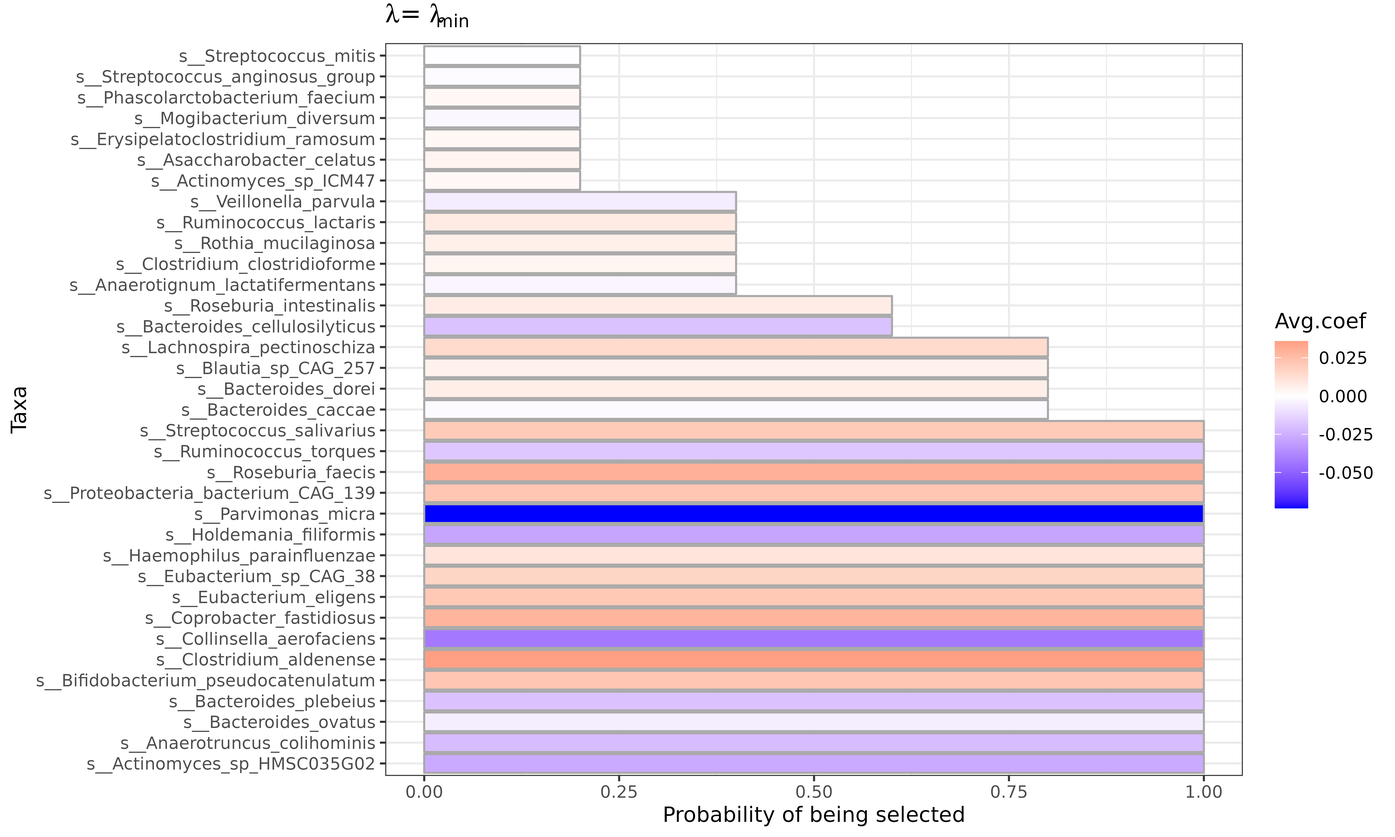
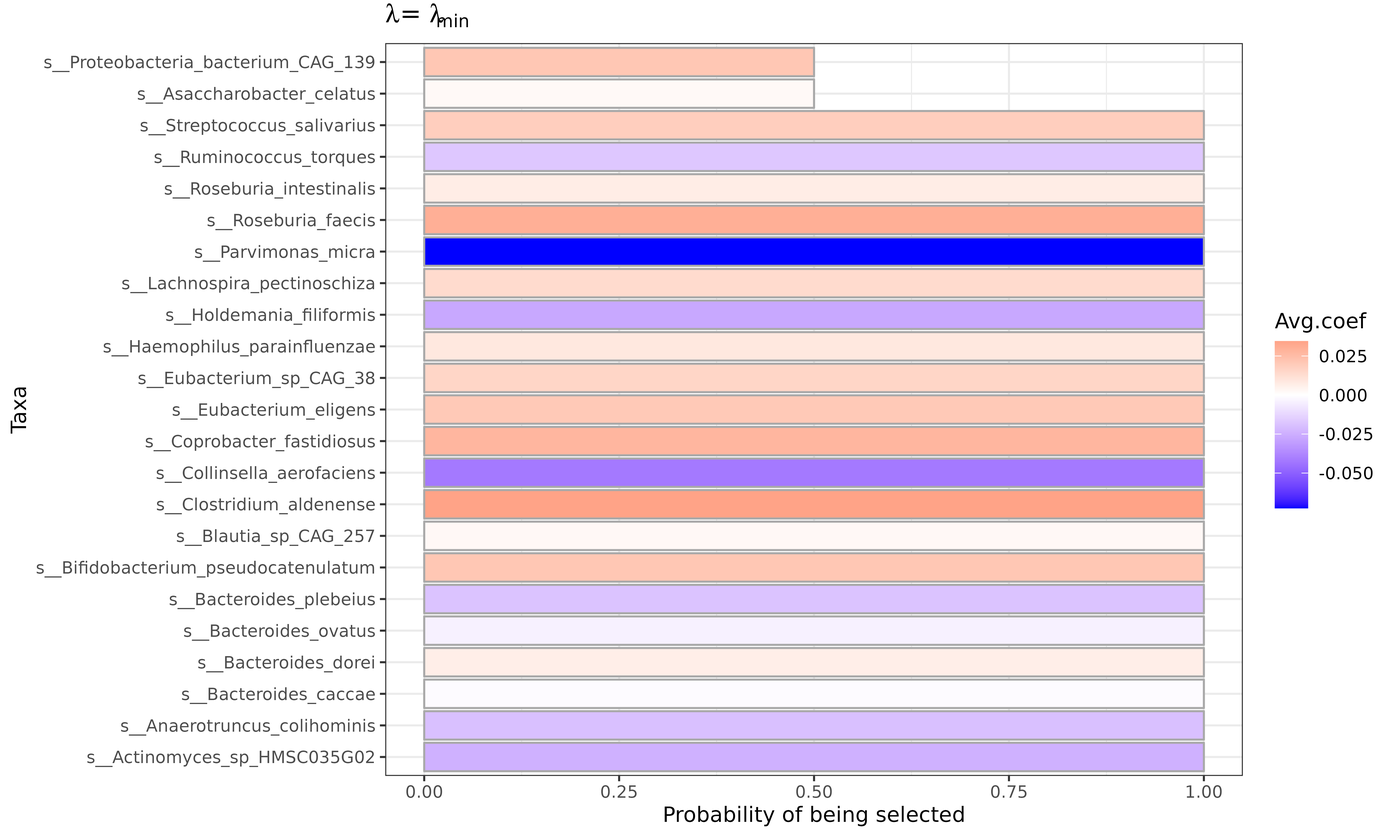
Built site for FLORAL: 0.2.0@d10d714

diff --git a/articles/Using-FLORAL-for-Microbiome-Analysis.html b/articles/Using-FLORAL-for-Microbiome-Analysis.html
@@ -33,7 +33,7 @@
     
     <a class="navbar-brand me-2" href="../index.html">FLORAL</a>
 
-    <small class="nav-text text-muted me-auto" data-bs-toggle="tooltip" data-bs-placement="bottom" title="">0.1.0.9001</small>
+    <small class="nav-text text-muted me-auto" data-bs-toggle="tooltip" data-bs-placement="bottom" title="">0.2.0</small>
 
     
     <button class="navbar-toggler" type="button" data-bs-toggle="collapse" data-bs-target="#navbar" aria-controls="navbar" aria-expanded="false" aria-label="Toggle navigation">
@@ -190,11 +190,11 @@ which is derived from the log-ratio model assumption.</p>
 <span></span>
 <span><span class="fu"><a href="https://rdrr.io/r/utils/head.html" class="external-link">head</a></span><span class="op">(</span><span class="fu"><a href="https://rdrr.io/r/base/sort.html" class="external-link">sort</a></span><span class="op">(</span><span class="va">fit</span><span class="op">$</span><span class="va">best.beta</span><span class="op">$</span><span class="va">min</span><span class="op">)</span><span class="op">)</span></span>
 <span><span class="co">#&gt;          s__Parvimonas_micra s__Actinomyces_sp_HMSC035G02 </span></span>
-<span><span class="co">#&gt;                  -0.08514883                  -0.06091512 </span></span>
+<span><span class="co">#&gt;                  -0.08252935                  -0.05314047 </span></span>
 <span><span class="co">#&gt;   s__Collinsella_aerofaciens     s__Holdemania_filiformis </span></span>
-<span><span class="co">#&gt;                  -0.04813102                  -0.04267987 </span></span>
+<span><span class="co">#&gt;                  -0.04716041                  -0.03963238 </span></span>
 <span><span class="co">#&gt; s__Anaerotruncus_colihominis      s__Bacteroides_plebeius </span></span>
-<span><span class="co">#&gt;                  -0.03821665                  -0.02492675</span></span></code></pre></div>
+<span><span class="co">#&gt;                  -0.03450502                  -0.02348108</span></span></code></pre></div>
 </div>
 <div class="section level2">
 <h2 id="the-two-step-procedure">The Two-step Procedure<a class="anchor" aria-label="anchor" href="#the-two-step-procedure"></a>
@@ -213,17 +213,17 @@ occur in multiple ratios.</p>
 <div class="sourceCode" id="cb7"><pre class="downlit sourceCode r">
 <code class="sourceCode R"><span></span>
 <span><span class="fu"><a href="https://rdrr.io/r/utils/head.html" class="external-link">head</a></span><span class="op">(</span><span class="va">fit</span><span class="op">$</span><span class="va">step2.ratios</span><span class="op">$</span><span class="va">`1se`</span><span class="op">)</span></span>
-<span><span class="co">#&gt; [1] "s__Bacteroides_plebeius/s__Bacteroides_dorei"                   </span></span>
+<span><span class="co">#&gt; [1] "s__Bacteroides_plebeius/s__Lachnospira_pectinoschiza"           </span></span>
 <span><span class="co">#&gt; [2] "s__Eubacterium_eligens/s__Bacteroides_cellulosilyticus"         </span></span>
 <span><span class="co">#&gt; [3] "s__Collinsella_aerofaciens/s__Bifidobacterium_pseudocatenulatum"</span></span>
-<span><span class="co">#&gt; [4] "s__Streptococcus_salivarius/s__Actinomyces_sp_HMSC035G02"       </span></span>
-<span><span class="co">#&gt; [5] "s__Haemophilus_parainfluenzae/s__Actinomyces_sp_HMSC035G02"     </span></span>
-<span><span class="co">#&gt; [6] "s__Erysipelatoclostridium_ramosum/s__Parvimonas_micra"</span></span>
+<span><span class="co">#&gt; [4] "s__Collinsella_aerofaciens/s__Coprobacter_fastidiosus"          </span></span>
+<span><span class="co">#&gt; [5] "s__Streptococcus_salivarius/s__Parvimonas_micra"                </span></span>
+<span><span class="co">#&gt; [6] "s__Holdemania_filiformis/s__Eubacterium_sp_CAG_38"</span></span>
 <span></span>
 <span><span class="va">fit</span><span class="op">$</span><span class="va">step2.ratios</span><span class="op">$</span><span class="va">`1se.idx`</span></span>
-<span><span class="co">#&gt;      [,1] [,2] [,3] [,4] [,5] [,6] [,7] [,8] [,9] [,10] [,11] [,12] [,13]</span></span>
-<span><span class="co">#&gt; [1,]   NA    1    4   12   22   25   26   27   27    44    73    81   114</span></span>
-<span><span class="co">#&gt; [2,]   NA    2  113  102  128  128  131   90  151    64    80   128   131</span></span></code></pre></div>
+<span><span class="co">#&gt;      [,1] [,2] [,3] [,4] [,5] [,6] [,7] [,8] [,9] [,10]</span></span>
+<span><span class="co">#&gt; [1,]   NA    1    4   12   12   22   27   27   64    80</span></span>
+<span><span class="co">#&gt; [2,]   NA   73  113  102  114  131   90  151  131    81</span></span></code></pre></div>
 <p>To further interpret the positive or negative associations between
 the outcome, please refer to the output <code>step</code> regression
 tables, where the effect sizes of the ratios can be found.</p>
@@ -239,61 +239,49 @@ prediction errors.</p>
 <code class="sourceCode R"><span></span>
 <span><span class="va">fit</span><span class="op">$</span><span class="va">step2.tables</span><span class="op">$</span><span class="va">`1se`</span></span>
 <span><span class="co">#&gt;                                                                    Estimate</span></span>
-<span><span class="co">#&gt; (Intercept)                                                     -1.13290845</span></span>
-<span><span class="co">#&gt; s__Bacteroides_plebeius/s__Bacteroides_dorei                    -0.02844973</span></span>
-<span><span class="co">#&gt; s__Eubacterium_eligens/s__Bacteroides_cellulosilyticus           0.03778557</span></span>
-<span><span class="co">#&gt; s__Collinsella_aerofaciens/s__Bifidobacterium_pseudocatenulatum -0.04968019</span></span>
-<span><span class="co">#&gt; s__Streptococcus_salivarius/s__Actinomyces_sp_HMSC035G02         0.07512405</span></span>
-<span><span class="co">#&gt; s__Haemophilus_parainfluenzae/s__Actinomyces_sp_HMSC035G02       0.03696680</span></span>
-<span><span class="co">#&gt; s__Erysipelatoclostridium_ramosum/s__Parvimonas_micra            0.04781375</span></span>
-<span><span class="co">#&gt; s__Holdemania_filiformis/s__Eubacterium_sp_CAG_38               -0.03970198</span></span>
-<span><span class="co">#&gt; s__Holdemania_filiformis/s__Proteobacteria_bacterium_CAG_139    -0.03442088</span></span>
-<span><span class="co">#&gt; s__Anaerotruncus_colihominis/s__Clostridium_aldenense           -0.07787635</span></span>
-<span><span class="co">#&gt; s__Lachnospira_pectinoschiza/s__Ruminococcus_torques             0.03472516</span></span>
-<span><span class="co">#&gt; s__Roseburia_faecis/s__Actinomyces_sp_HMSC035G02                 0.04784454</span></span>
-<span><span class="co">#&gt; s__Coprobacter_fastidiosus/s__Parvimonas_micra                   0.06889677</span></span>
+<span><span class="co">#&gt; (Intercept)                                                     -0.27720870</span></span>
+<span><span class="co">#&gt; s__Bacteroides_plebeius/s__Lachnospira_pectinoschiza            -0.02919464</span></span>
+<span><span class="co">#&gt; s__Eubacterium_eligens/s__Bacteroides_cellulosilyticus           0.04723508</span></span>
+<span><span class="co">#&gt; s__Collinsella_aerofaciens/s__Bifidobacterium_pseudocatenulatum -0.03143593</span></span>
+<span><span class="co">#&gt; s__Collinsella_aerofaciens/s__Coprobacter_fastidiosus           -0.04248963</span></span>
+<span><span class="co">#&gt; s__Streptococcus_salivarius/s__Parvimonas_micra                  0.07394560</span></span>
+<span><span class="co">#&gt; s__Holdemania_filiformis/s__Eubacterium_sp_CAG_38               -0.04070714</span></span>
+<span><span class="co">#&gt; s__Holdemania_filiformis/s__Proteobacteria_bacterium_CAG_139    -0.03969244</span></span>
+<span><span class="co">#&gt; s__Clostridium_aldenense/s__Parvimonas_micra                     0.07915905</span></span>
+<span><span class="co">#&gt; s__Ruminococcus_torques/s__Roseburia_faecis                     -0.03437834</span></span>
 <span><span class="co">#&gt;                                                                 Std. Error</span></span>
-<span><span class="co">#&gt; (Intercept)                                                     0.26269116</span></span>
-<span><span class="co">#&gt; s__Bacteroides_plebeius/s__Bacteroides_dorei                    0.01109385</span></span>
-<span><span class="co">#&gt; s__Eubacterium_eligens/s__Bacteroides_cellulosilyticus          0.01394149</span></span>
-<span><span class="co">#&gt; s__Collinsella_aerofaciens/s__Bifidobacterium_pseudocatenulatum 0.01517330</span></span>
-<span><span class="co">#&gt; s__Streptococcus_salivarius/s__Actinomyces_sp_HMSC035G02        0.02810284</span></span>
-<span><span class="co">#&gt; s__Haemophilus_parainfluenzae/s__Actinomyces_sp_HMSC035G02      0.02287159</span></span>
-<span><span class="co">#&gt; s__Erysipelatoclostridium_ramosum/s__Parvimonas_micra           0.01975876</span></span>
-<span><span class="co">#&gt; s__Holdemania_filiformis/s__Eubacterium_sp_CAG_38               0.01630423</span></span>
-<span><span class="co">#&gt; s__Holdemania_filiformis/s__Proteobacteria_bacterium_CAG_139    0.01847908</span></span>
-<span><span class="co">#&gt; s__Anaerotruncus_colihominis/s__Clostridium_aldenense           0.02175762</span></span>
-<span><span class="co">#&gt; s__Lachnospira_pectinoschiza/s__Ruminococcus_torques            0.01312878</span></span>
-<span><span class="co">#&gt; s__Roseburia_faecis/s__Actinomyces_sp_HMSC035G02                0.01770898</span></span>
-<span><span class="co">#&gt; s__Coprobacter_fastidiosus/s__Parvimonas_micra                  0.01828425</span></span>
+<span><span class="co">#&gt; (Intercept)                                                     0.21514372</span></span>
+<span><span class="co">#&gt; s__Bacteroides_plebeius/s__Lachnospira_pectinoschiza            0.01105520</span></span>
+<span><span class="co">#&gt; s__Eubacterium_eligens/s__Bacteroides_cellulosilyticus          0.01351912</span></span>
+<span><span class="co">#&gt; s__Collinsella_aerofaciens/s__Bifidobacterium_pseudocatenulatum 0.01565520</span></span>
+<span><span class="co">#&gt; s__Collinsella_aerofaciens/s__Coprobacter_fastidiosus           0.01667695</span></span>
+<span><span class="co">#&gt; s__Streptococcus_salivarius/s__Parvimonas_micra                 0.02218330</span></span>
+<span><span class="co">#&gt; s__Holdemania_filiformis/s__Eubacterium_sp_CAG_38               0.01578675</span></span>
+<span><span class="co">#&gt; s__Holdemania_filiformis/s__Proteobacteria_bacterium_CAG_139    0.01768932</span></span>
+<span><span class="co">#&gt; s__Clostridium_aldenense/s__Parvimonas_micra                    0.02322763</span></span>
+<span><span class="co">#&gt; s__Ruminococcus_torques/s__Roseburia_faecis                     0.01271141</span></span>
 <span><span class="co">#&gt;                                                                   z value</span></span>
-<span><span class="co">#&gt; (Intercept)                                                     -4.312701</span></span>
-<span><span class="co">#&gt; s__Bacteroides_plebeius/s__Bacteroides_dorei                    -2.564460</span></span>
-<span><span class="co">#&gt; s__Eubacterium_eligens/s__Bacteroides_cellulosilyticus           2.710297</span></span>
-<span><span class="co">#&gt; s__Collinsella_aerofaciens/s__Bifidobacterium_pseudocatenulatum -3.274185</span></span>
-<span><span class="co">#&gt; s__Streptococcus_salivarius/s__Actinomyces_sp_HMSC035G02         2.673183</span></span>
-<span><span class="co">#&gt; s__Haemophilus_parainfluenzae/s__Actinomyces_sp_HMSC035G02       1.616276</span></span>
-<span><span class="co">#&gt; s__Erysipelatoclostridium_ramosum/s__Parvimonas_micra            2.419876</span></span>
-<span><span class="co">#&gt; s__Holdemania_filiformis/s__Eubacterium_sp_CAG_38               -2.435072</span></span>
-<span><span class="co">#&gt; s__Holdemania_filiformis/s__Proteobacteria_bacterium_CAG_139    -1.862695</span></span>
-<span><span class="co">#&gt; s__Anaerotruncus_colihominis/s__Clostridium_aldenense           -3.579268</span></span>
-<span><span class="co">#&gt; s__Lachnospira_pectinoschiza/s__Ruminococcus_torques             2.644964</span></span>
-<span><span class="co">#&gt; s__Roseburia_faecis/s__Actinomyces_sp_HMSC035G02                 2.701711</span></span>
-<span><span class="co">#&gt; s__Coprobacter_fastidiosus/s__Parvimonas_micra                   3.768094</span></span>
+<span><span class="co">#&gt; (Intercept)                                                     -1.288481</span></span>
+<span><span class="co">#&gt; s__Bacteroides_plebeius/s__Lachnospira_pectinoschiza            -2.640807</span></span>
+<span><span class="co">#&gt; s__Eubacterium_eligens/s__Bacteroides_cellulosilyticus           3.493947</span></span>
+<span><span class="co">#&gt; s__Collinsella_aerofaciens/s__Bifidobacterium_pseudocatenulatum -2.008018</span></span>
+<span><span class="co">#&gt; s__Collinsella_aerofaciens/s__Coprobacter_fastidiosus           -2.547807</span></span>
+<span><span class="co">#&gt; s__Streptococcus_salivarius/s__Parvimonas_micra                  3.333391</span></span>
+<span><span class="co">#&gt; s__Holdemania_filiformis/s__Eubacterium_sp_CAG_38               -2.578563</span></span>
+<span><span class="co">#&gt; s__Holdemania_filiformis/s__Proteobacteria_bacterium_CAG_139    -2.243864</span></span>
+<span><span class="co">#&gt; s__Clostridium_aldenense/s__Parvimonas_micra                     3.407970</span></span>
+<span><span class="co">#&gt; s__Ruminococcus_torques/s__Roseburia_faecis                     -2.704526</span></span>
 <span><span class="co">#&gt;                                                                     Pr(&gt;|z|)</span></span>
-<span><span class="co">#&gt; (Intercept)                                                     0.0000161272</span></span>
-<span><span class="co">#&gt; s__Bacteroides_plebeius/s__Bacteroides_dorei                    0.0103336444</span></span>
-<span><span class="co">#&gt; s__Eubacterium_eligens/s__Bacteroides_cellulosilyticus          0.0067222886</span></span>
-<span><span class="co">#&gt; s__Collinsella_aerofaciens/s__Bifidobacterium_pseudocatenulatum 0.0010596731</span></span>
-<span><span class="co">#&gt; s__Streptococcus_salivarius/s__Actinomyces_sp_HMSC035G02        0.0075135152</span></span>
-<span><span class="co">#&gt; s__Haemophilus_parainfluenzae/s__Actinomyces_sp_HMSC035G02      0.1060346352</span></span>
-<span><span class="co">#&gt; s__Erysipelatoclostridium_ramosum/s__Parvimonas_micra           0.0155258098</span></span>
-<span><span class="co">#&gt; s__Holdemania_filiformis/s__Eubacterium_sp_CAG_38               0.0148888266</span></span>
-<span><span class="co">#&gt; s__Holdemania_filiformis/s__Proteobacteria_bacterium_CAG_139    0.0625051926</span></span>
-<span><span class="co">#&gt; s__Anaerotruncus_colihominis/s__Clostridium_aldenense           0.0003445584</span></span>
-<span><span class="co">#&gt; s__Lachnospira_pectinoschiza/s__Ruminococcus_torques            0.0081699524</span></span>
-<span><span class="co">#&gt; s__Roseburia_faecis/s__Actinomyces_sp_HMSC035G02                0.0068983632</span></span>
-<span><span class="co">#&gt; s__Coprobacter_fastidiosus/s__Parvimonas_micra                  0.0001644988</span></span></code></pre></div>
+<span><span class="co">#&gt; (Intercept)                                                     0.1975784131</span></span>
+<span><span class="co">#&gt; s__Bacteroides_plebeius/s__Lachnospira_pectinoschiza            0.0082708898</span></span>
+<span><span class="co">#&gt; s__Eubacterium_eligens/s__Bacteroides_cellulosilyticus          0.0004759361</span></span>
+<span><span class="co">#&gt; s__Collinsella_aerofaciens/s__Bifidobacterium_pseudocatenulatum 0.0446413750</span></span>
+<span><span class="co">#&gt; s__Collinsella_aerofaciens/s__Coprobacter_fastidiosus           0.0108402505</span></span>
+<span><span class="co">#&gt; s__Streptococcus_salivarius/s__Parvimonas_micra                 0.0008579441</span></span>
+<span><span class="co">#&gt; s__Holdemania_filiformis/s__Eubacterium_sp_CAG_38               0.0099212270</span></span>
+<span><span class="co">#&gt; s__Holdemania_filiformis/s__Proteobacteria_bacterium_CAG_139    0.0248411595</span></span>
+<span><span class="co">#&gt; s__Clostridium_aldenense/s__Parvimonas_micra                    0.0006544809</span></span>
+<span><span class="co">#&gt; s__Ruminococcus_torques/s__Roseburia_faecis                     0.0068401830</span></span></code></pre></div>
 </div>
 <div class="section level2">
 <h2 id="generating-taxa-selection-probabilities">Generating taxa selection probabilities<a class="anchor" aria-label="anchor" href="#generating-taxa-selection-probabilities"></a>
@@ -307,20 +295,17 @@ summarizes taxa selection probabilities, average coefficients based on
 can be created if <code>plot = TRUE</code> is specified.</p>
 <div class="sourceCode" id="cb9"><pre class="downlit sourceCode r">
 <code class="sourceCode R"><span></span>
-<span><span class="va">mcv.fit</span> <span class="op">&lt;-</span> <span class="fu"><a href="../reference/mcv.FLORAL.html">mcv.FLORAL</a></span><span class="op">(</span>mcv<span class="op">=</span><span class="fl">5</span>,</span>
+<span><span class="va">mcv.fit</span> <span class="op">&lt;-</span> <span class="fu"><a href="../reference/mcv.FLORAL.html">mcv.FLORAL</a></span><span class="op">(</span>mcv<span class="op">=</span><span class="fl">2</span>,</span>
 <span>                      ncore<span class="op">=</span><span class="fl">1</span>,</span>
 <span>                      x <span class="op">=</span> <span class="va">x</span>, </span>
 <span>                      y <span class="op">=</span> <span class="va">y</span>, </span>
 <span>                      family <span class="op">=</span> <span class="st">"binomial"</span>, </span>
 <span>                      ncv <span class="op">=</span> <span class="fl">3</span>,</span>
 <span>                      progress<span class="op">=</span><span class="cn">TRUE</span><span class="op">)</span></span>
-<span><span class="co">#&gt; Warning in mcv.FLORAL(mcv = 5, ncore = 1, x = x, y = y, family = "binomial", :</span></span>
+<span><span class="co">#&gt; Warning in mcv.FLORAL(mcv = 2, ncore = 1, x = x, y = y, family = "binomial", :</span></span>
 <span><span class="co">#&gt; Using 1 core for computation.</span></span>
 <span><span class="co">#&gt; Random 3-fold cross-validation: 1</span></span>
-<span><span class="co">#&gt; Random 3-fold cross-validation: 2</span></span>
-<span><span class="co">#&gt; Random 3-fold cross-validation: 3</span></span>
-<span><span class="co">#&gt; Random 3-fold cross-validation: 4</span></span>
-<span><span class="co">#&gt; Random 3-fold cross-validation: 5</span></span></code></pre></div>
+<span><span class="co">#&gt; Random 3-fold cross-validation: 2</span></span></code></pre></div>
 <div class="sourceCode" id="cb10"><pre class="downlit sourceCode r">
 <code class="sourceCode R"><span></span>
 <span><span class="va">mcv.fit</span><span class="op">$</span><span class="va">p_min</span></span></code></pre></div>
@@ -345,21 +330,20 @@ return a plot of the corresponding prediction metric trajectories
 against the choice of <span class="math inline">\(\lambda\)</span>.</p>
 <div class="sourceCode" id="cb12"><pre class="downlit sourceCode r">
 <code class="sourceCode R"><span></span>
-<span><span class="va">a.fit</span> <span class="op">&lt;-</span> <span class="fu"><a href="../reference/a.FLORAL.html">a.FLORAL</a></span><span class="op">(</span>a <span class="op">=</span> <span class="fu"><a href="https://rdrr.io/r/base/c.html" class="external-link">c</a></span><span class="op">(</span><span class="fl">0.1</span>,<span class="fl">0.5</span>,<span class="fl">1</span><span class="op">)</span>,</span>
+<span><span class="va">a.fit</span> <span class="op">&lt;-</span> <span class="fu"><a href="../reference/a.FLORAL.html">a.FLORAL</a></span><span class="op">(</span>a <span class="op">=</span> <span class="fu"><a href="https://rdrr.io/r/base/c.html" class="external-link">c</a></span><span class="op">(</span><span class="fl">0.1</span>,<span class="fl">1</span><span class="op">)</span>,</span>
 <span>                  ncore <span class="op">=</span> <span class="fl">1</span>,</span>
 <span>                  x <span class="op">=</span> <span class="va">x</span>, </span>
 <span>                  y <span class="op">=</span> <span class="va">y</span>, </span>
 <span>                  family <span class="op">=</span> <span class="st">"binomial"</span>, </span>
 <span>                  ncv <span class="op">=</span> <span class="fl">3</span>,</span>
 <span>                  progress<span class="op">=</span><span class="cn">TRUE</span><span class="op">)</span></span>
-<span><span class="co">#&gt; Warning in a.FLORAL(a = c(0.1, 0.5, 1), ncore = 1, x = x, y = y, family =</span></span>
+<span><span class="co">#&gt; Warning in a.FLORAL(a = c(0.1, 1), ncore = 1, x = x, y = y, family =</span></span>
 <span><span class="co">#&gt; "binomial", : Using 1 core for computation.</span></span>
 <span><span class="co">#&gt; Running for a = 0.1</span></span>
-<span><span class="co">#&gt; Running for a = 0.5</span></span>
 <span><span class="co">#&gt; Running for a = 1</span></span>
 <span></span>
 <span><span class="va">a.fit</span></span></code></pre></div>
-<p><img src="Using-FLORAL-for-Microbiome-Analysis_files/figure-html/a.floral-1.png" width="100%"></p>
+<p><img src="Using-FLORAL-for-Microbiome-Analysis_files/figure-html/a.floral-1.png" width="50%"></p>
 </div>
   </main><aside class="col-md-3"><nav id="toc"><h2>On this page</h2>
     </nav></aside>

diff --git a/reference/FLORAL.html b/reference/FLORAL.html
@@ -10,7 +10,7 @@
     
     <a class="navbar-brand me-2" href="../index.html">FLORAL</a>
 
-    <small class="nav-text text-muted me-auto" data-bs-toggle="tooltip" data-bs-placement="bottom" title="">0.1.0.9001</small>
+    <small class="nav-text text-muted me-auto" data-bs-toggle="tooltip" data-bs-placement="bottom" title="">0.2.0</small>
 
     
     <button class="navbar-toggler" type="button" data-bs-toggle="collapse" data-bs-target="#navbar" aria-controls="navbar" aria-expanded="false" aria-label="Toggle navigation">
@@ -180,20 +180,20 @@
 <span class="r-in"><span></span></span>
 <span class="r-in"><span><span class="co"># Continuous outcome</span></span></span>
 <span class="r-in"><span><span class="va">dat</span> <span class="op">&lt;-</span> <span class="fu"><a href="simu.html">simu</a></span><span class="op">(</span>n<span class="op">=</span><span class="fl">50</span>,p<span class="op">=</span><span class="fl">30</span>,model<span class="op">=</span><span class="st">"linear"</span><span class="op">)</span></span></span>
-<span class="r-in"><span><span class="va">fit</span> <span class="op">&lt;-</span> <span class="fu">FLORAL</span><span class="op">(</span><span class="va">dat</span><span class="op">$</span><span class="va">xcount</span>,<span class="va">dat</span><span class="op">$</span><span class="va">y</span>,family<span class="op">=</span><span class="st">"gaussian"</span>,progress<span class="op">=</span><span class="cn">FALSE</span>,step2<span class="op">=</span><span class="cn">TRUE</span><span class="op">)</span></span></span>
+<span class="r-in"><span><span class="va">fit</span> <span class="op">&lt;-</span> <span class="fu">FLORAL</span><span class="op">(</span><span class="va">dat</span><span class="op">$</span><span class="va">xcount</span>,<span class="va">dat</span><span class="op">$</span><span class="va">y</span>,family<span class="op">=</span><span class="st">"gaussian"</span>,ncv<span class="op">=</span><span class="fl">2</span>,progress<span class="op">=</span><span class="cn">FALSE</span>,step2<span class="op">=</span><span class="cn">TRUE</span><span class="op">)</span></span></span>
 <span class="r-in"><span></span></span>
 <span class="r-in"><span><span class="co"># Binary outcome</span></span></span>
-<span class="r-in"><span><span class="va">dat</span> <span class="op">&lt;-</span> <span class="fu"><a href="simu.html">simu</a></span><span class="op">(</span>n<span class="op">=</span><span class="fl">50</span>,p<span class="op">=</span><span class="fl">30</span>,model<span class="op">=</span><span class="st">"binomial"</span><span class="op">)</span></span></span>
-<span class="r-in"><span><span class="va">fit</span> <span class="op">&lt;-</span> <span class="fu">FLORAL</span><span class="op">(</span><span class="va">dat</span><span class="op">$</span><span class="va">xcount</span>,<span class="va">dat</span><span class="op">$</span><span class="va">y</span>,family<span class="op">=</span><span class="st">"binomial"</span>,progress<span class="op">=</span><span class="cn">FALSE</span>,step2<span class="op">=</span><span class="cn">TRUE</span><span class="op">)</span></span></span>
+<span class="r-in"><span><span class="co"># dat &lt;- simu(n=50,p=30,model="binomial")</span></span></span>
+<span class="r-in"><span><span class="co"># fit &lt;- FLORAL(dat$xcount,dat$y,family="binomial",progress=FALSE,step2=TRUE)</span></span></span>
 <span class="r-in"><span></span></span>
 <span class="r-in"><span><span class="co"># Survival outcome</span></span></span>
-<span class="r-in"><span><span class="va">dat</span> <span class="op">&lt;-</span> <span class="fu"><a href="simu.html">simu</a></span><span class="op">(</span>n<span class="op">=</span><span class="fl">50</span>,p<span class="op">=</span><span class="fl">30</span>,model<span class="op">=</span><span class="st">"cox"</span><span class="op">)</span></span></span>
-<span class="r-in"><span><span class="va">fit</span> <span class="op">&lt;-</span> <span class="fu">FLORAL</span><span class="op">(</span><span class="va">dat</span><span class="op">$</span><span class="va">xcount</span>,<span class="fu">survival</span><span class="fu">::</span><span class="fu"><a href="https://rdrr.io/pkg/survival/man/Surv.html" class="external-link">Surv</a></span><span class="op">(</span><span class="va">dat</span><span class="op">$</span><span class="va">t</span>,<span class="va">dat</span><span class="op">$</span><span class="va">d</span><span class="op">)</span>,family<span class="op">=</span><span class="st">"cox"</span>,progress<span class="op">=</span><span class="cn">FALSE</span>,step2<span class="op">=</span><span class="cn">TRUE</span><span class="op">)</span></span></span>
+<span class="r-in"><span><span class="co"># dat &lt;- simu(n=50,p=30,model="cox")</span></span></span>
+<span class="r-in"><span><span class="co"># fit &lt;- FLORAL(dat$xcount,survival::Surv(dat$t,dat$d),family="cox",progress=FALSE,step2=TRUE)</span></span></span>
 <span class="r-in"><span></span></span>
 <span class="r-in"><span><span class="co"># Competing risks outcome</span></span></span>
-<span class="r-in"><span><span class="va">dat</span> <span class="op">&lt;-</span> <span class="fu"><a href="simu.html">simu</a></span><span class="op">(</span>n<span class="op">=</span><span class="fl">50</span>,p<span class="op">=</span><span class="fl">30</span>,model<span class="op">=</span><span class="st">"finegray"</span><span class="op">)</span></span></span>
-<span class="r-in"><span><span class="va">fit</span> <span class="op">&lt;-</span> <span class="fu">FLORAL</span><span class="op">(</span><span class="va">dat</span><span class="op">$</span><span class="va">xcount</span>,<span class="fu">survival</span><span class="fu">::</span><span class="fu"><a href="https://rdrr.io/pkg/survival/man/Surv.html" class="external-link">Surv</a></span><span class="op">(</span><span class="va">dat</span><span class="op">$</span><span class="va">t</span>,<span class="va">dat</span><span class="op">$</span><span class="va">d</span>,type<span class="op">=</span><span class="st">"mstate"</span><span class="op">)</span>,failcode<span class="op">=</span><span class="fl">1</span>,</span></span>
-<span class="r-in"><span>              family<span class="op">=</span><span class="st">"finegray"</span>,progress<span class="op">=</span><span class="cn">FALSE</span>,step2<span class="op">=</span><span class="cn">FALSE</span><span class="op">)</span></span></span>
+<span class="r-in"><span><span class="co"># dat &lt;- simu(n=50,p=30,model="finegray")</span></span></span>
+<span class="r-in"><span><span class="co"># fit &lt;- FLORAL(dat$xcount,survival::Surv(dat$t,dat$d,type="mstate"),failcode=1,</span></span></span>
+<span class="r-in"><span><span class="co">#               family="finegray",progress=FALSE,step2=FALSE)</span></span></span>
 <span class="r-in"><span></span></span>
 </code></pre></div>
     </div>

diff --git a/reference/a.FLORAL.html b/reference/a.FLORAL.html
@@ -10,7 +10,7 @@
     
     <a class="navbar-brand me-2" href="../index.html">FLORAL</a>
 
-    <small class="nav-text text-muted me-auto" data-bs-toggle="tooltip" data-bs-placement="bottom" title="">0.1.0.9001</small>
+    <small class="nav-text text-muted me-auto" data-bs-toggle="tooltip" data-bs-placement="bottom" title="">0.2.0</small>
 
     
     <button class="navbar-toggler" type="button" data-bs-toggle="collapse" data-bs-target="#navbar" aria-controls="navbar" aria-expanded="false" aria-label="Toggle navigation">
@@ -179,7 +179,7 @@
 <span class="r-in"><span><span class="fu"><a href="https://rdrr.io/r/base/Random.html" class="external-link">set.seed</a></span><span class="op">(</span><span class="fl">23420</span><span class="op">)</span></span></span>
 <span class="r-in"><span></span></span>
 <span class="r-in"><span><span class="va">dat</span> <span class="op">&lt;-</span> <span class="fu"><a href="simu.html">simu</a></span><span class="op">(</span>n<span class="op">=</span><span class="fl">50</span>,p<span class="op">=</span><span class="fl">30</span>,model<span class="op">=</span><span class="st">"linear"</span><span class="op">)</span></span></span>
-<span class="r-in"><span><span class="va">pmetric</span> <span class="op">&lt;-</span> <span class="fu">a.FLORAL</span><span class="op">(</span>a<span class="op">=</span><span class="fu"><a href="https://rdrr.io/r/base/c.html" class="external-link">c</a></span><span class="op">(</span><span class="fl">0.1</span>,<span class="fl">1</span><span class="op">)</span>,ncore<span class="op">=</span><span class="fl">1</span>,x<span class="op">=</span><span class="va">dat</span><span class="op">$</span><span class="va">xcount</span>,y<span class="op">=</span><span class="va">dat</span><span class="op">$</span><span class="va">y</span>,family<span class="op">=</span><span class="st">"gaussian"</span>,progress<span class="op">=</span><span class="cn">FALSE</span><span class="op">)</span></span></span>
+<span class="r-in"><span><span class="va">pmetric</span> <span class="op">&lt;-</span> <span class="fu">a.FLORAL</span><span class="op">(</span>a<span class="op">=</span><span class="fu"><a href="https://rdrr.io/r/base/c.html" class="external-link">c</a></span><span class="op">(</span><span class="fl">0.1</span>,<span class="fl">1</span><span class="op">)</span>,ncore<span class="op">=</span><span class="fl">1</span>,x<span class="op">=</span><span class="va">dat</span><span class="op">$</span><span class="va">xcount</span>,y<span class="op">=</span><span class="va">dat</span><span class="op">$</span><span class="va">y</span>,family<span class="op">=</span><span class="st">"gaussian"</span>,ncv<span class="op">=</span><span class="fl">2</span>,progress<span class="op">=</span><span class="cn">FALSE</span><span class="op">)</span></span></span>
 <span class="r-in"><span></span></span>
 </code></pre></div>
     </div>

diff --git a/reference/mcv.FLORAL.html b/reference/mcv.FLORAL.html
@@ -10,7 +10,7 @@
     
     <a class="navbar-brand me-2" href="../index.html">FLORAL</a>
 
-    <small class="nav-text text-muted me-auto" data-bs-toggle="tooltip" data-bs-placement="bottom" title="">0.1.0.9001</small>
+    <small class="nav-text text-muted me-auto" data-bs-toggle="tooltip" data-bs-placement="bottom" title="">0.2.0</small>
 
     
     <button class="navbar-toggler" type="button" data-bs-toggle="collapse" data-bs-target="#navbar" aria-controls="navbar" aria-expanded="false" aria-label="Toggle navigation">
@@ -191,7 +191,7 @@
 <span class="r-in"><span><span class="fu"><a href="https://rdrr.io/r/base/Random.html" class="external-link">set.seed</a></span><span class="op">(</span><span class="fl">23420</span><span class="op">)</span></span></span>
 <span class="r-in"><span></span></span>
 <span class="r-in"><span><span class="va">dat</span> <span class="op">&lt;-</span> <span class="fu"><a href="simu.html">simu</a></span><span class="op">(</span>n<span class="op">=</span><span class="fl">50</span>,p<span class="op">=</span><span class="fl">30</span>,model<span class="op">=</span><span class="st">"linear"</span><span class="op">)</span></span></span>
-<span class="r-in"><span><span class="va">fit</span> <span class="op">&lt;-</span> <span class="fu">mcv.FLORAL</span><span class="op">(</span>mcv<span class="op">=</span><span class="fl">2</span>,ncore<span class="op">=</span><span class="fl">1</span>,x<span class="op">=</span><span class="va">dat</span><span class="op">$</span><span class="va">xcount</span>,y<span class="op">=</span><span class="va">dat</span><span class="op">$</span><span class="va">y</span>,family<span class="op">=</span><span class="st">"gaussian"</span>,progress<span class="op">=</span><span class="cn">FALSE</span>,step2<span class="op">=</span><span class="cn">TRUE</span><span class="op">)</span></span></span>
+<span class="r-in"><span><span class="va">fit</span> <span class="op">&lt;-</span> <span class="fu">mcv.FLORAL</span><span class="op">(</span>mcv<span class="op">=</span><span class="fl">2</span>,ncore<span class="op">=</span><span class="fl">1</span>,x<span class="op">=</span><span class="va">dat</span><span class="op">$</span><span class="va">xcount</span>,y<span class="op">=</span><span class="va">dat</span><span class="op">$</span><span class="va">y</span>,ncv<span class="op">=</span><span class="fl">2</span>,progress<span class="op">=</span><span class="cn">FALSE</span>,step2<span class="op">=</span><span class="cn">TRUE</span>,plot<span class="op">=</span><span class="cn">FALSE</span><span class="op">)</span></span></span>
 <span class="r-in"><span></span></span>
 </code></pre></div>
     </div>

diff --git a/news/index.html b/news/index.html
@@ -10,7 +10,7 @@
     
     <a class="navbar-brand me-2" href="../index.html">FLORAL</a>
 
-    <small class="nav-text text-muted me-auto" data-bs-toggle="tooltip" data-bs-placement="bottom" title="">0.1.0.9001</small>
+    <small class="nav-text text-muted me-auto" data-bs-toggle="tooltip" data-bs-placement="bottom" title="">0.2.0</small>
 
     
     <button class="navbar-toggler" type="button" data-bs-toggle="collapse" data-bs-target="#navbar" aria-controls="navbar" aria-expanded="false" aria-label="Toggle navigation">
@@ -51,7 +51,7 @@
     </div>
 
     <div class="section level2">
-<h2 class="pkg-version" data-toc-text="development version" id="floral-development-version">FLORAL (development version)<a class="anchor" aria-label="anchor" href="#floral-development-version"></a></h2>
+<h2 class="pkg-version" data-toc-text="0.2.0" id="floral-020">FLORAL 0.2.0<a class="anchor" aria-label="anchor" href="#floral-020"></a></h2>
 <ul><li><p>Including more examples in document compared to CRAN version (0.1.0.9000)</p></li>
 <li><p>Enables elastic net models. Users can specify the weight of lasso penalty using argument <code>a</code>. (0.1.0.9001)</p></li>
 <li><p>Allows adding non-compositional covariates which are not constrained by the zero-sum constraint. (0.1.0.9001)</p></li>

diff --git a/authors.html b/authors.html
@@ -10,7 +10,7 @@
     
     <a class="navbar-brand me-2" href="index.html">FLORAL</a>
 
-    <small class="nav-text text-muted me-auto" data-bs-toggle="tooltip" data-bs-placement="bottom" title="">0.1.0.9001</small>
+    <small class="nav-text text-muted me-auto" data-bs-toggle="tooltip" data-bs-placement="bottom" title="">0.2.0</small>
 
     
     <button class="navbar-toggler" type="button" data-bs-toggle="collapse" data-bs-target="#navbar" aria-controls="navbar" aria-expanded="false" aria-label="Toggle navigation">
@@ -76,13 +76,13 @@
 
       <p>Fei T, Funnell T, Waters N, Raj S (2023).
 <em>FLORAL: Fit Log-Ratio Lasso Regression for Compositional Data</em>.
-R package version 0.1.0.9001, <a href="https://vdblab.github.io/FLORAL/">https://vdblab.github.io/FLORAL/</a>. 
+R package version 0.2.0, <a href="https://vdblab.github.io/FLORAL/">https://vdblab.github.io/FLORAL/</a>. 
 </p>
       <pre>@Manual{,
   title = {FLORAL: Fit Log-Ratio Lasso Regression for Compositional Data},
   author = {Teng Fei and Tyler Funnell and Nicholas Waters and Sandeep Raj},
   year = {2023},
-  note = {R package version 0.1.0.9001},
+  note = {R package version 0.2.0},
   url = {https://vdblab.github.io/FLORAL/},
 }</pre>
     </div>

diff --git a/404.html b/404.html
@@ -31,7 +31,7 @@
     
     <a class="navbar-brand me-2" href="https://vdblab.github.io/FLORAL/index.html">FLORAL</a>
 
-    <small class="nav-text text-muted me-auto" data-bs-toggle="tooltip" data-bs-placement="bottom" title="">0.1.0.9001</small>
+    <small class="nav-text text-muted me-auto" data-bs-toggle="tooltip" data-bs-placement="bottom" title="">0.2.0</small>
 
     
     <button class="navbar-toggler" type="button" data-bs-toggle="collapse" data-bs-target="#navbar" aria-controls="navbar" aria-expanded="false" aria-label="Toggle navigation">

diff --git a/articles/index.html b/articles/index.html
@@ -10,7 +10,7 @@
     
     <a class="navbar-brand me-2" href="../index.html">FLORAL</a>
 
-    <small class="nav-text text-muted me-auto" data-bs-toggle="tooltip" data-bs-placement="bottom" title="">0.1.0.9001</small>
+    <small class="nav-text text-muted me-auto" data-bs-toggle="tooltip" data-bs-placement="bottom" title="">0.2.0</small>
 
     
     <button class="navbar-toggler" type="button" data-bs-toggle="collapse" data-bs-target="#navbar" aria-controls="navbar" aria-expanded="false" aria-label="Toggle navigation">

diff --git a/reference/index.html b/reference/index.html
@@ -10,7 +10,7 @@
     
     <a class="navbar-brand me-2" href="../index.html">FLORAL</a>
 
-    <small class="nav-text text-muted me-auto" data-bs-toggle="tooltip" data-bs-placement="bottom" title="">0.1.0.9001</small>
+    <small class="nav-text text-muted me-auto" data-bs-toggle="tooltip" data-bs-placement="bottom" title="">0.2.0</small>
 
     
     <button class="navbar-toggler" type="button" data-bs-toggle="collapse" data-bs-target="#navbar" aria-controls="navbar" aria-expanded="false" aria-label="Toggle navigation">

diff --git a/reference/simu.html b/reference/simu.html
@@ -10,7 +10,7 @@
     
     <a class="navbar-brand me-2" href="../index.html">FLORAL</a>
 
-    <small class="nav-text text-muted me-auto" data-bs-toggle="tooltip" data-bs-placement="bottom" title="">0.1.0.9001</small>
+    <small class="nav-text text-muted me-auto" data-bs-toggle="tooltip" data-bs-placement="bottom" title="">0.2.0</small>
 
     
     <button class="navbar-toggler" type="button" data-bs-toggle="collapse" data-bs-target="#navbar" aria-controls="navbar" aria-expanded="false" aria-label="Toggle navigation">

diff --git a/CODE_OF_CONDUCT.html b/CODE_OF_CONDUCT.html
@@ -10,7 +10,7 @@
     
     <a class="navbar-brand me-2" href="index.html">FLORAL</a>
 
-    <small class="nav-text text-muted me-auto" data-bs-toggle="tooltip" data-bs-placement="bottom" title="">0.1.0.9001</small>
+    <small class="nav-text text-muted me-auto" data-bs-toggle="tooltip" data-bs-placement="bottom" title="">0.2.0</small>
 
     
     <button class="navbar-toggler" type="button" data-bs-toggle="collapse" data-bs-target="#navbar" aria-controls="navbar" aria-expanded="false" aria-label="Toggle navigation">

diff --git a/LICENSE-text.html b/LICENSE-text.html
@@ -10,7 +10,7 @@
     
     <a class="navbar-brand me-2" href="index.html">FLORAL</a>
 
-    <small class="nav-text text-muted me-auto" data-bs-toggle="tooltip" data-bs-placement="bottom" title="">0.1.0.9001</small>
+    <small class="nav-text text-muted me-auto" data-bs-toggle="tooltip" data-bs-placement="bottom" title="">0.2.0</small>
 
     
     <button class="navbar-toggler" type="button" data-bs-toggle="collapse" data-bs-target="#navbar" aria-controls="navbar" aria-expanded="false" aria-label="Toggle navigation">
